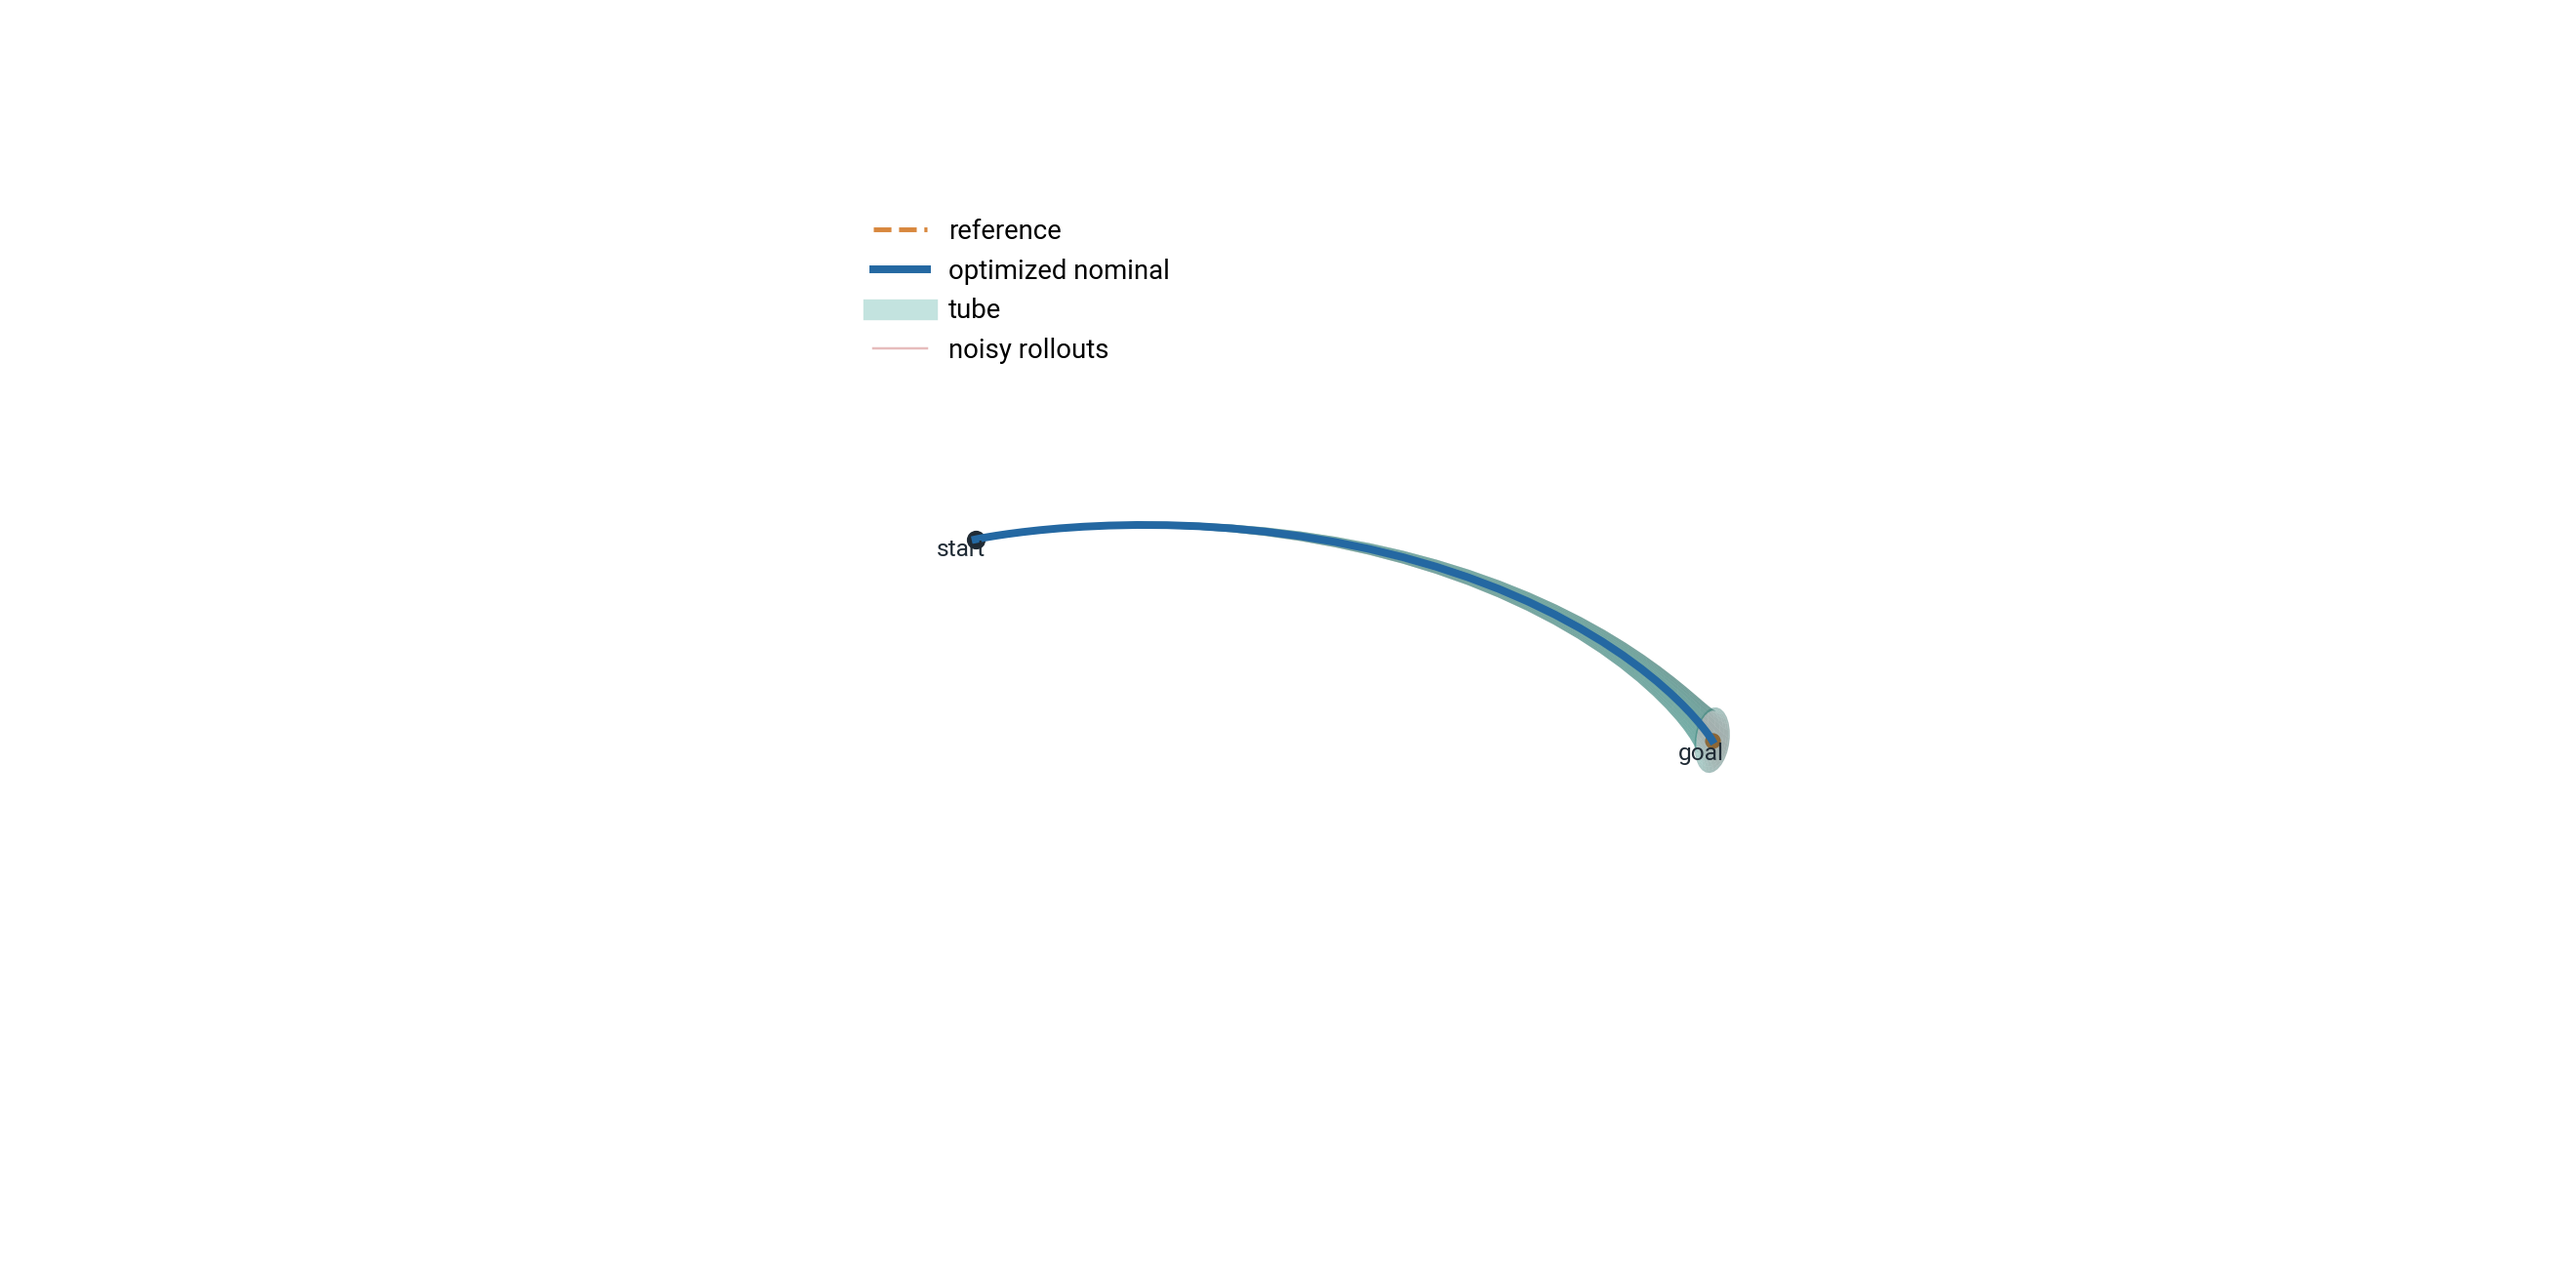
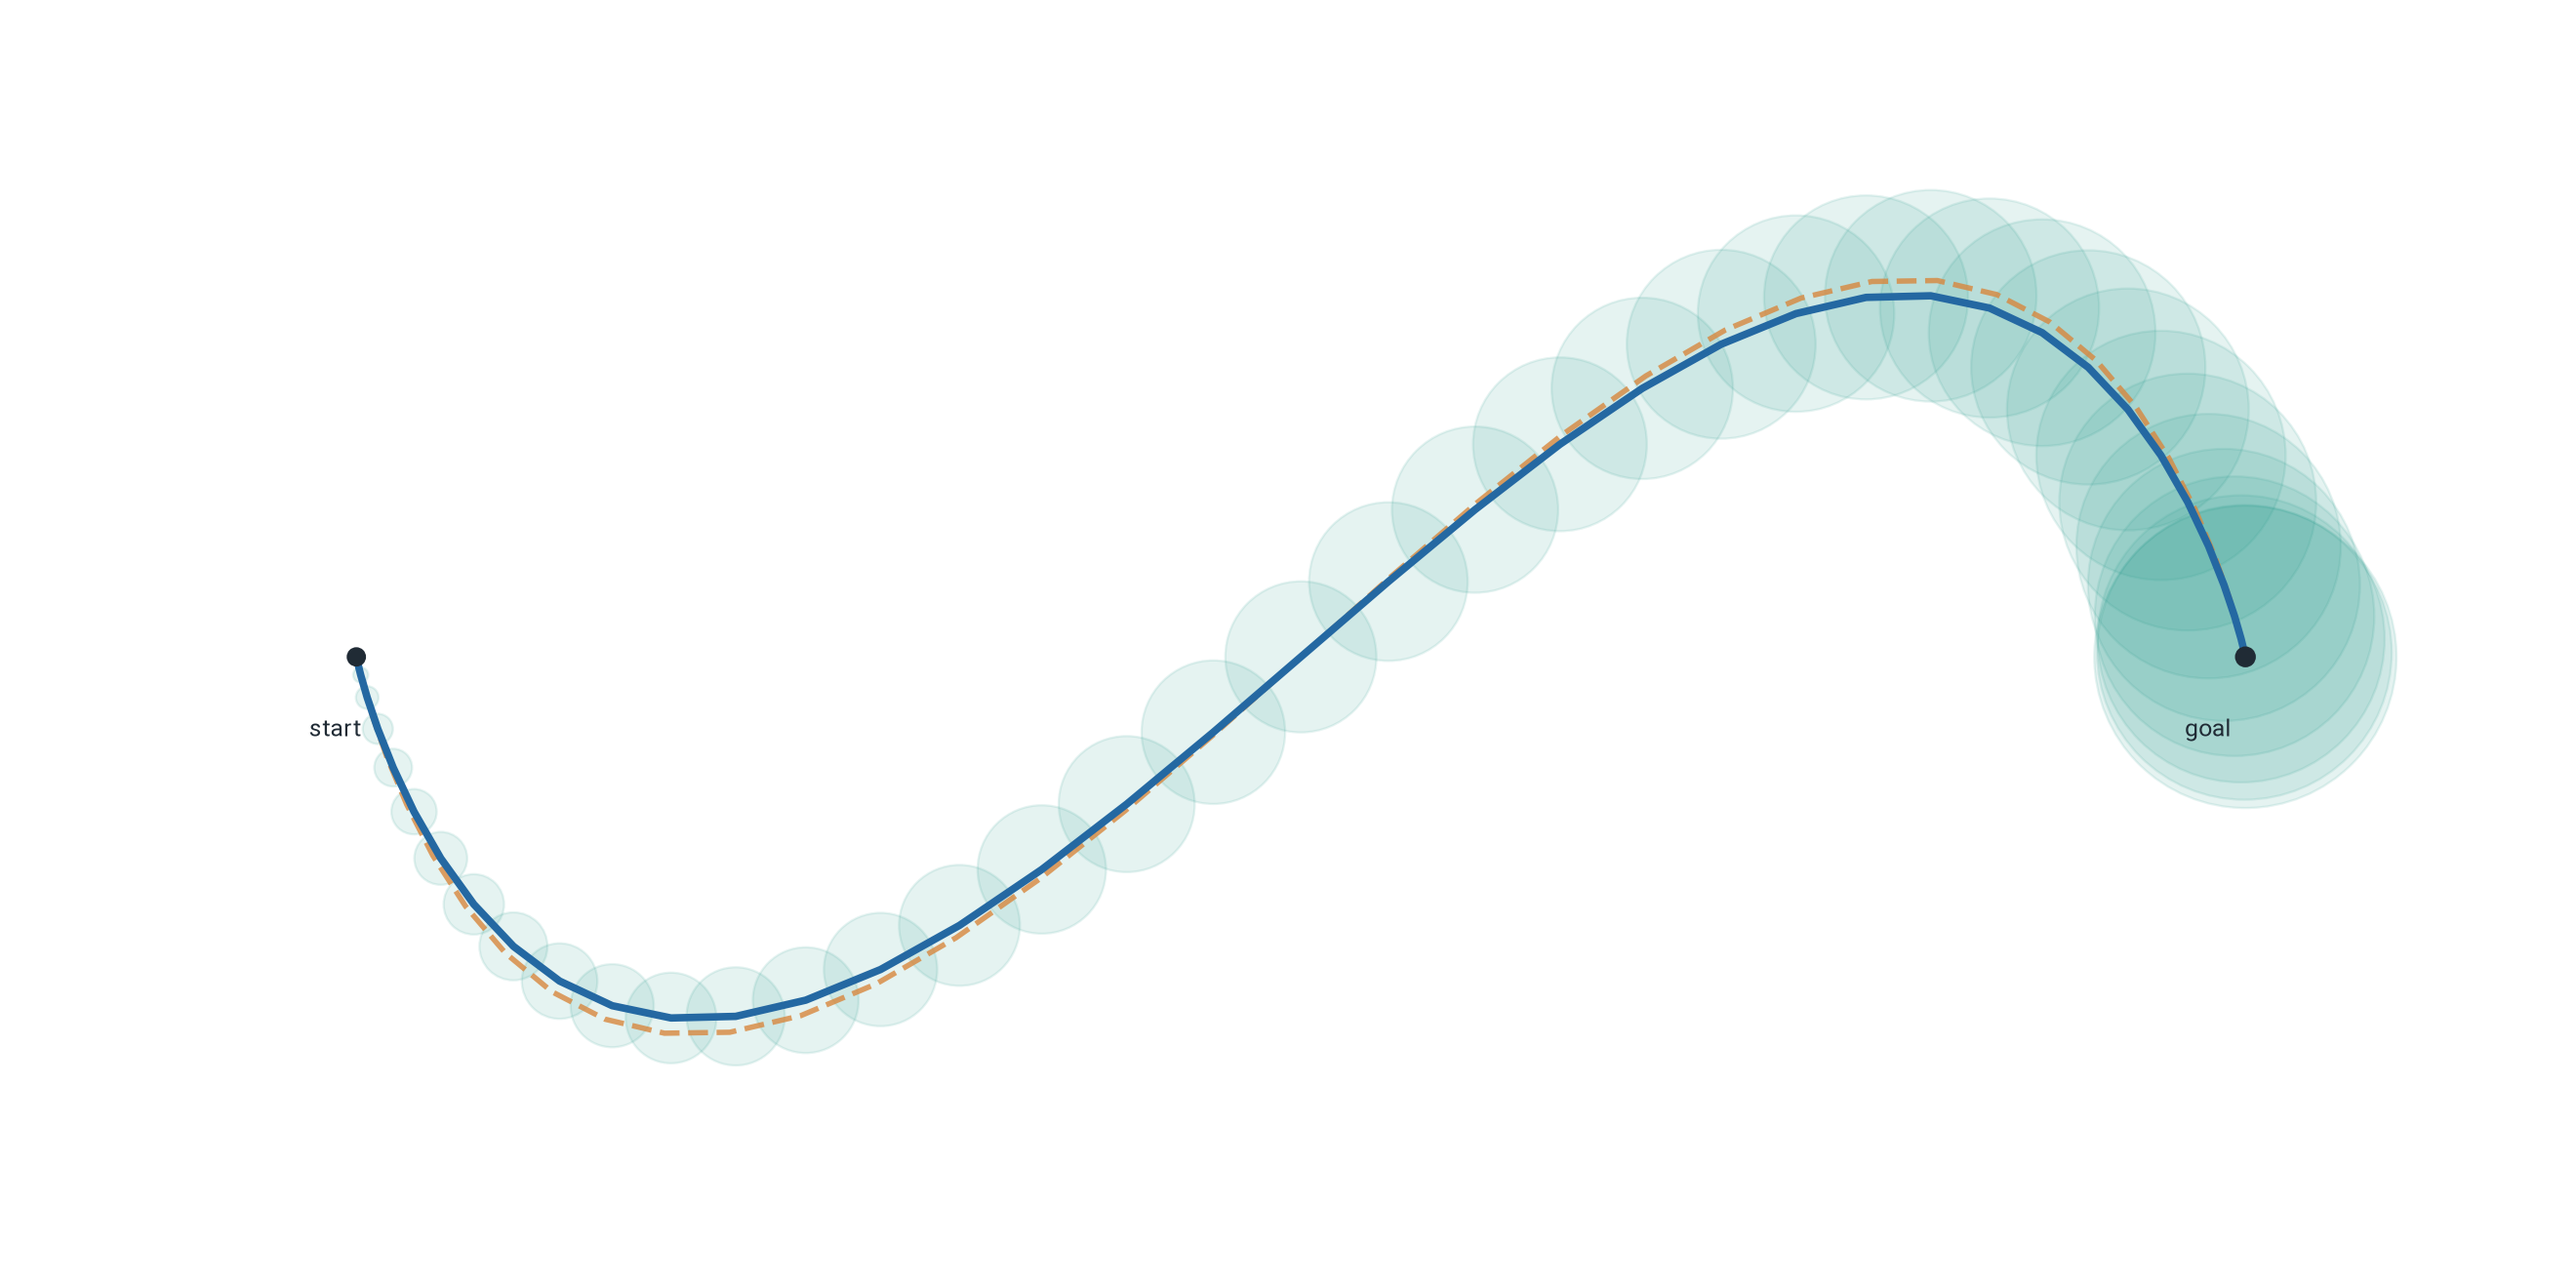
new

Changed region(s): [[0.1242, 0.1242, 0.9318, 0.8386], [0.3106, 0.1553, 0.4659, 0.2795], [0.6212, 0.497, 0.6833, 0.5902]]

diff --git a/meam5170_robust_and_stochastic_control/tube_traj_opt.py b/meam5170_robust_and_stochastic_control/tube_traj_opt.py
@@ -6,9 +6,9 @@ is optimized while a fixed PD error-feedback controller bounds the effect of a
 small additive disturbance.  The resulting position projection of the tube is
 drawn as a disk at every sample.
 
-Run from any directory with::
+Run from this project directory with::
 
-    python tube_traj_opt.py
+    uv run --python .venv/bin/python tube_traj_opt.py
 
 The default output is written next to this script as ``tube_traj_opt.png``.
 """
@@ -18,7 +18,7 @@ from __future__ import annotations
 import argparse
 from pathlib import Path
 import matplotlib.pyplot as plt
-from matplotlib.lines import Line2D
+from matplotlib.patches import Circle
 import numpy as np
 from scipy.optimize import minimize
 
@@ -27,7 +27,7 @@ from scipy.optimize import minimize
 DT = 0.10
 HORIZON = 40
 TOTAL_TIME = DT * HORIZON
-RW = 0.012  # radius of the additive disturbance ball in R^4
+RW = 0.020  # radius of the additive disturbance ball in R^4
 GAMMA = 0.70
 SEED = 5170
 Y_AMPLITUDE = 2.0
@@ -58,7 +58,7 @@ def minimum_jerk_reference(
     """
     time = np.arange(horizon + 1, dtype=float) * dt
     tau = np.clip(time / (horizon * dt), 0.0, 1.0)
-    s = 10.0 * tau**3 - 15.0 * tau**4 + 6.0 * tau**5
+    s = tau**3 * (10.0 - 15.0 * tau + 6.0 * tau**2)
     ds = (30.0 * tau**2 - 60.0 * tau**3 + 30.0 * tau**4) / (horizon * dt)
     d2s = (60.0 * tau - 180.0 * tau**2 + 120.0 * tau**3) / (horizon * dt) ** 2
     # g(tau)=tau^3(1-tau)^3(2*tau-1), normalized to a +/-2 excursion.
@@ -230,86 +230,33 @@ def solve_tube_problem() -> dict[str, np.ndarray | float | object]:
     }
 
 
-def sample_noisy_rollouts(data: dict[str, np.ndarray | float | object], count: int = 4) -> list[np.ndarray]:
-    """Generate restrained, deterministic closed-loop disturbances for the plot."""
-    a = data["A"]
-    b = data["B"]
-    k = data["K"]
-    x_nom = data["x"]
-    u_nom = data["u"]
-    rng = np.random.default_rng(SEED)
-    trajectories: list[np.ndarray] = []
-    for _ in range(count):
-        x = np.zeros(4)
-        path = np.empty_like(x_nom)
-        path[0] = x
-        for t in range(HORIZON):
-            direction = rng.normal(size=4)
-            direction /= np.linalg.norm(direction)
-            radius = RW * rng.random() ** 0.25 * 0.78
-            disturbance = radius * direction
-            control = u_nom[t] + k @ (x - x_nom[t])
-            x = a @ x + b @ control + disturbance
-            path[t + 1] = x
-        trajectories.append(path)
-    return trajectories
-
-
 def make_figure(data: dict[str, np.ndarray | float | object]) -> plt.Figure:
-    """Draw a minimal 3-D lifted tube around the planar nominal trajectory."""
+    """Draw the planar reference, nominal, and the union of alpha disks."""
     plt.rcParams.update({"font.family": "Roboto", "font.size": 10})
     x_ref = data["x_ref"]
     x_opt = data["x"]
     alpha = data["alpha"]
-    trajectories = sample_noisy_rollouts(data, count=3)
+    fig, ax = plt.subplots(figsize=(12.0, 6.0), facecolor="white")
+    blue, orange, teal = "#2468a2", "#d8873d", "#2a9d8f"
 
-    fig = plt.figure(figsize=(12.0, 6.0), facecolor="white")
-    ax = fig.add_subplot(111, projection="3d")
-    blue, orange, teal, red = "#2468a2", "#d8873d", "#2a9d8f", "#c96b6b"
-
-    # Cross-sections use the planar normal and a visual z direction. z is not
-    # a dynamical state; it simply exposes the unit-ball tube in the figure.
-    # The optimizer stores [p_y, p_x, v_y, v_x], so swap the first two entries
-    # here to display physical (p_x, p_y) coordinates.
-    centers = np.column_stack((x_opt[:, 1], x_opt[:, 0], np.zeros(len(x_opt))))
-    tangent_xy = np.gradient(centers[:, :2], axis=0)
-    tangent_xy /= np.linalg.norm(tangent_xy, axis=1, keepdims=True)
-    normal = np.column_stack((-tangent_xy[:, 1], tangent_xy[:, 0], np.zeros(len(x_opt))))
-    binormal = np.tile(np.array([0.0, 0.0, 1.0]), (len(x_opt), 1))
-    theta = np.linspace(0.0, 2.0 * np.pi, 28)
-    ring = np.cos(theta)[None, :, None] * normal[:, None, :]
-    ring += np.sin(theta)[None, :, None] * binormal[:, None, :]
-    surface = centers[:, None, :] + alpha[:, None, None] * ring
-    ax.plot_surface(surface[..., 0], surface[..., 1], surface[..., 2],
-                    color=teal, alpha=0.38, linewidth=0.0, antialiased=True, shade=True)
-
-    for path in trajectories:
-        ax.plot(path[:, 1], path[:, 0], np.zeros(len(path)), color=red,
-                linewidth=0.8, alpha=0.34, zorder=2)
-    ax.plot(x_ref[:, 1], x_ref[:, 0], np.zeros(len(x_ref)), "--",
-            color=orange, linewidth=1.6, alpha=0.78, zorder=4)
-    ax.plot(x_opt[:, 1], x_opt[:, 0], np.zeros(len(x_opt)), color=blue,
-            linewidth=2.6, zorder=5)
-    ax.scatter([x_opt[0, 1]], [x_opt[0, 0]], [0.0], s=28, color="#202b35", zorder=6)
-    ax.scatter([x_opt[-1, 1]], [x_opt[-1, 0]], [0.0], s=36, color=orange,
-               edgecolor="white", linewidth=0.7, zorder=6)
-    ax.text(x_opt[0, 1] - 0.25, x_opt[0, 0] - 0.55, 0.0, "start", color="#202b35",
-            fontsize=8, zorder=7)
-    ax.text(x_opt[-1, 1] - 0.2, x_opt[-1, 0] - 0.55, 0.0, "goal", color="#202b35",
-            fontsize=8, zorder=7)
-
-    ax.set_xlim(-2.8, 2.8)
-    ax.set_ylim(-0.8, 10.8)
-    ax.set_zlim(-0.42, 0.42)
-    ax.set_box_aspect((11.0, 5.6, 1.8))
-    ax.view_init(elev=34.0, azim=-64.0)
+    # Each patch is the exact position projection of alpha_t E. Keeping the
+    # disks independent avoids interpolating across the sampled tube.
+    for (center_x, center_y), radius in zip(x_opt[:, :2], alpha):
+        ax.add_patch(Circle((center_x, center_y), float(radius),
+                            facecolor=teal, edgecolor=teal, linewidth=0.75,
+                            alpha=0.12, zorder=1))
+    ax.plot(x_ref[:, 0], x_ref[:, 1], "--", color=orange, linewidth=1.8,
+            alpha=0.80, label="reference", zorder=4)
+    ax.plot(x_opt[:, 0], x_opt[:, 1], color=blue, linewidth=2.5,
+            label="optimized nominal", zorder=5)
+    ax.scatter([0.0, 10.0], [0.0, 0.0], s=[30, 36], color="#202b35", zorder=6)
+    ax.text(-0.25, -0.42, "start", color="#202b35", fontsize=8)
+    ax.text(9.68, -0.42, "goal", color="#202b35", fontsize=8)
+    ax.set_xlim(-0.9, 10.9)
+    ax.set_ylim(-3.0, 3.0)
+    ax.set_aspect("equal", adjustable="box")
     ax.set_axis_off()
-    ax.legend(handles=[
-        Line2D([], [], color=orange, linestyle="--", linewidth=1.6, label="reference"),
-        Line2D([], [], color=blue, linewidth=2.6, label="optimized nominal"),
-        Line2D([], [], color=teal, linewidth=7.0, alpha=0.28, label="tube"),
-        Line2D([], [], color=red, linewidth=0.8, alpha=0.45, label="noisy rollouts"),
-    ], loc="upper left", bbox_to_anchor=(0.025, 0.96), frameon=False, fontsize=9)
+    fig.subplots_adjust(left=0.03, right=0.98, bottom=0.05, top=0.93)
     return fig
 
 
